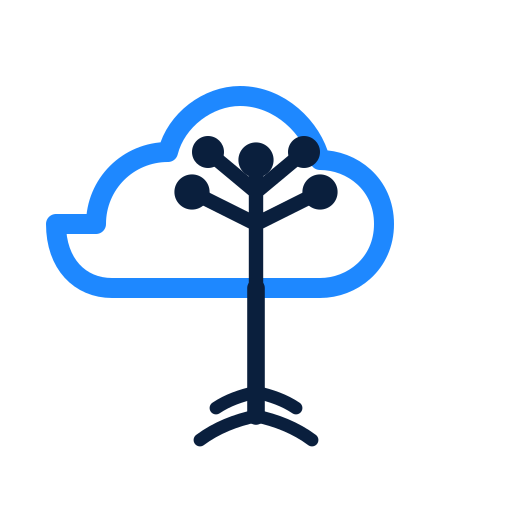
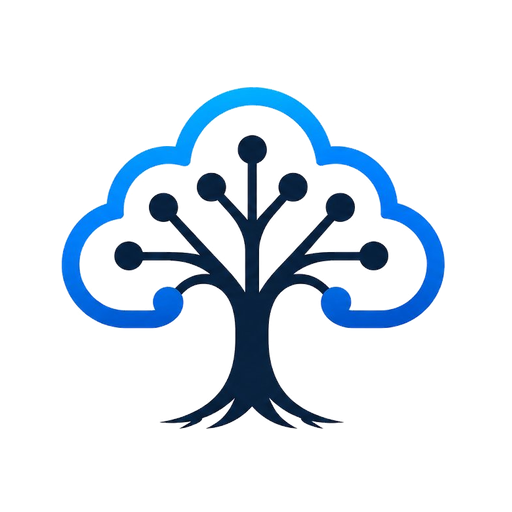
Test 2

Changed region(s): [[0.0625, 0.1562, 0.875, 0.875]]

diff --git a/index.html b/index.html
@@ -7,8 +7,8 @@
   <meta name="description" content="CloudRoot IT Support — Submit a support request" />
   <title>CloudRoot Support</title>
   <link rel="manifest" href="manifest.json" />
-  <link rel="icon" type="image/svg+xml" href="icon.svg" />
-  <link rel="apple-touch-icon" href="icon-192.png" />
+  <link rel="icon" type="image/png" href="icon-192.png" />
+  <link rel="apple-touch-icon" href="apple-touch-icon.png" />
   <meta name="apple-mobile-web-app-capable" content="yes" />
   <meta name="apple-mobile-web-app-status-bar-style" content="black-translucent" />
   <meta name="apple-mobile-web-app-title" content="CloudRoot Support" />
@@ -98,15 +98,15 @@
     }
 
     .brand-mark {
-      width: 44px;
       height: 44px;
-      display: grid;
-      place-items: center;
+      width: auto;
+      display: block;
       flex-shrink: 0;
     }
-    .brand-mark svg {
-      width: 100%;
+    .brand-mark img {
       height: 100%;
+      width: auto;
+      display: block;
     }
 
     .brand-name {
@@ -639,39 +639,7 @@
   <header>
     <div class="brand">
       <div class="brand-mark" aria-hidden="true">
-        <svg viewBox="0 0 64 64" xmlns="http://www.w3.org/2000/svg">
-          <!-- Cloud outline (bright blue) -->
-          <path d="M12 28
-                   c0-5 4-9 9-9
-                   c1-4 5-7 9-7
-                   c5 0 9 4 10 8
-                   c4 0 8 3 8 8
-                   c0 5-4 8-8 8
-                   l-26 0
-                   c-4 0-7-3-7-8z"
-                fill="none" stroke="#1e88ff" stroke-width="2.5" stroke-linejoin="round"/>
-          <!-- Tree trunk -->
-          <line x1="32" y1="36" x2="32" y2="52" stroke="#0a1f3d" stroke-width="2.2" stroke-linecap="round"/>
-          <!-- Roots -->
-          <path d="M32 52 c-2.5 0.5-5 1.5-7 3
-                   M32 52 c2.5 0.5 5 1.5 7 3
-                   M32 49 c-2 0.5-3.5 1-5 2
-                   M32 49 c2 0.5 3.5 1 5 2"
-                stroke="#0a1f3d" stroke-width="1.6" stroke-linecap="round" fill="none"/>
-          <!-- Branches into cloud -->
-          <path d="M32 36 L32 22
-                   M32 28 L24 24
-                   M32 28 L40 24
-                   M32 24 L26 19
-                   M32 24 L38 19"
-                stroke="#0a1f3d" stroke-width="1.8" fill="none" stroke-linecap="round"/>
-          <!-- Circuit nodes -->
-          <circle cx="24" cy="24" r="2.2" fill="#0a1f3d"/>
-          <circle cx="40" cy="24" r="2.2" fill="#0a1f3d"/>
-          <circle cx="26" cy="19" r="2" fill="#0a1f3d"/>
-          <circle cx="38" cy="19" r="2" fill="#0a1f3d"/>
-          <circle cx="32" cy="20" r="2.2" fill="#0a1f3d"/>
-        </svg>
+        <img src="logo-header.png" alt="" />
       </div>
       <div>
         <div class="brand-name">CloudRoot <span class="brand-name-accent">IT</span></div>

diff --git a/sw.js b/sw.js
@@ -1,12 +1,15 @@
 // CloudRoot Support — Service Worker
 // Cache-first for app shell, network-first for everything else.
 
-const CACHE_VERSION = 'cloudroot-support-v1';
+const CACHE_VERSION = 'cloudroot-support-v2';
 const APP_SHELL = [
   './',
   './index.html',
   './manifest.json',
-  './icon.svg'
+  './logo-header.png',
+  './icon-192.png',
+  './icon-512.png',
+  './apple-touch-icon.png'
 ];
 
 self.addEventListener('install', (event) => {